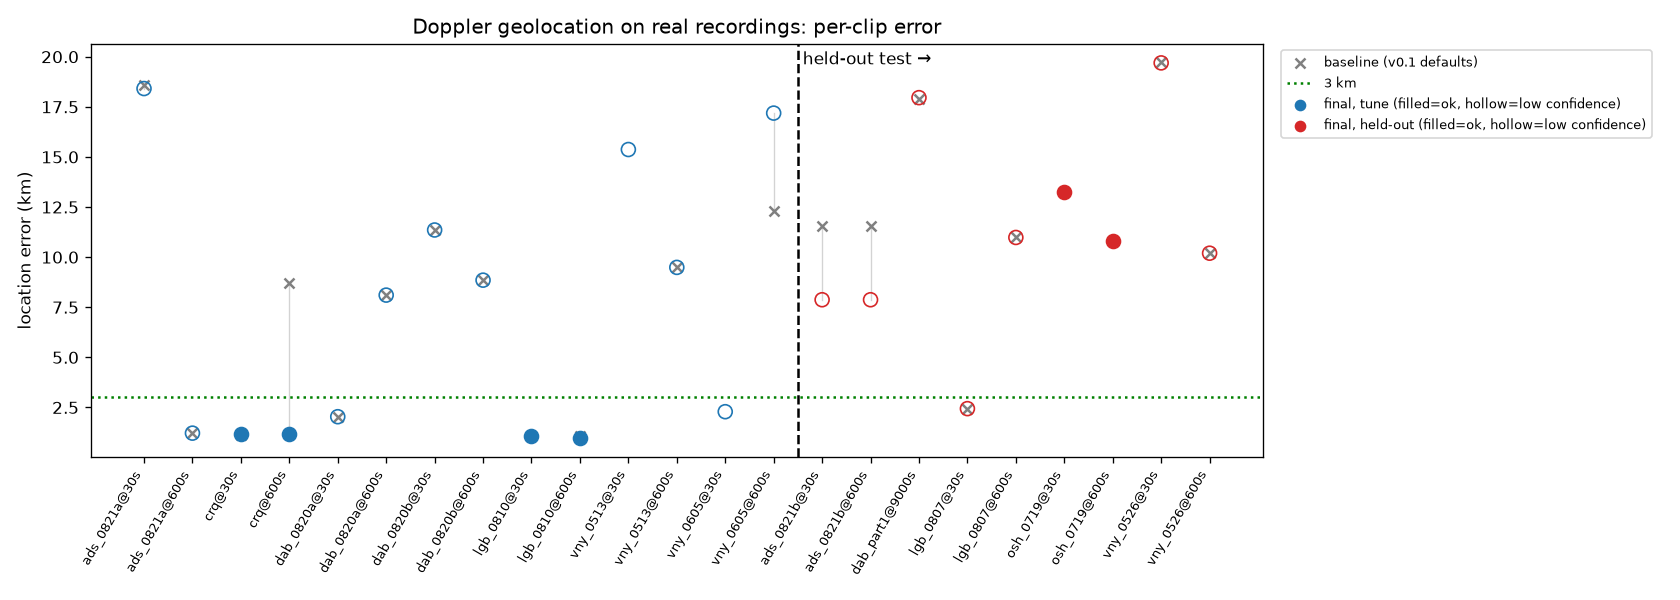
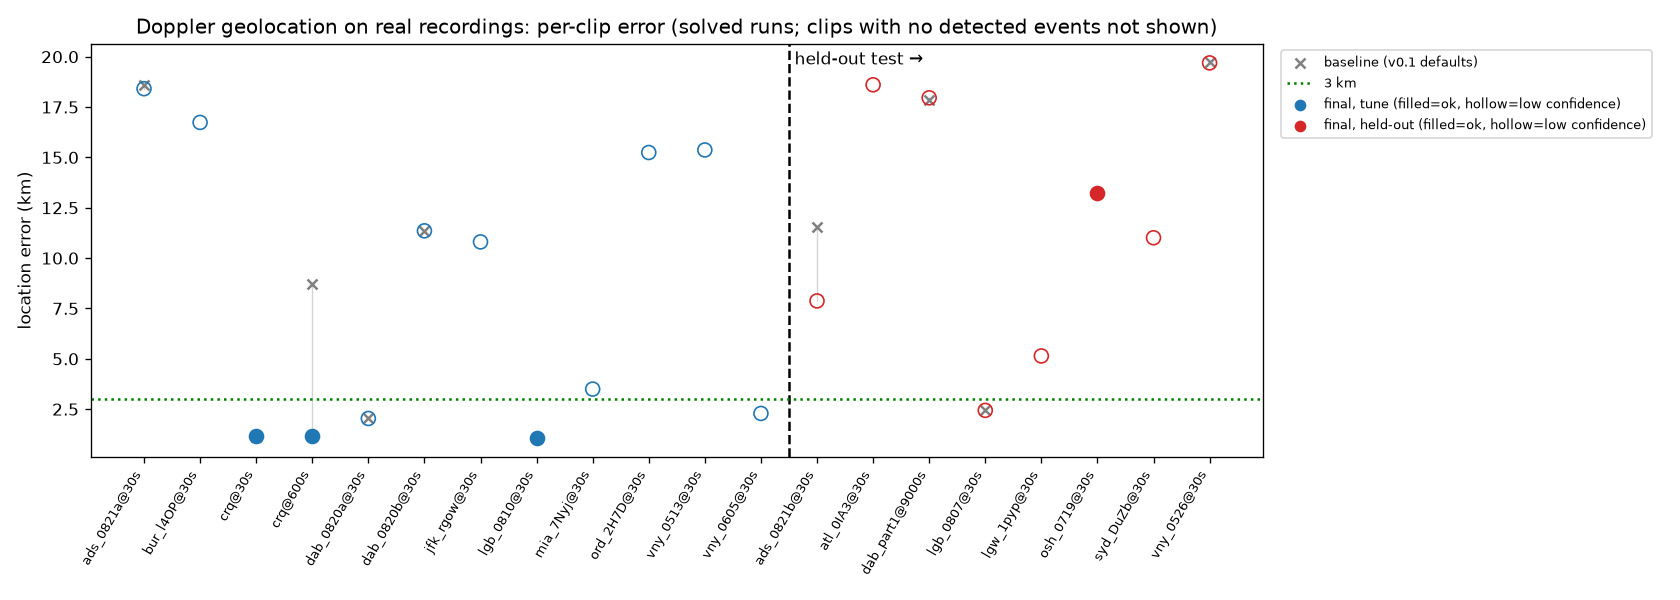
Calibrate 95% regions (temper_extra=4), eval calib sweep; README: expanded tune + held-out results, livestream failure analysis

diff --git a/scripts/eval_batch.py b/scripts/eval_batch.py
@@ -201,6 +201,29 @@ def coverage(res, tla, tlo, unc_km):
     out["in95u"] = bool(np.any(near & (rank < 0.95) & (p > 0)))
     out["a68_km2"] = round((a68 or 0) / 1e6, 3)
     out["a95_km2"] = round((a95 or 0) / 1e6, 3)
+    # calibration sweep: extra temper factor k on top of the Birge temperature,
+    # evaluated on the coarse full-domain level so the truth is always on the grid
+    C = res["levels"][0]
+    dC = np.hypot(
+        (C["lat"] - tla) * 111.2,
+        (C["lon"] - tlo) * 111.2 * math.cos(math.radians(tla)),
+    )
+    jc = int(np.argmin(dC))
+    sweep = {}
+    for k in (1, 2, 4, 8, 16, 32, 64, 128, 256):
+        pk, _, a95k = score.posterior(
+            C["logl"] / (C.get("temperature", 1.0) * k), C["step"] ** 2
+        )
+        o2 = np.argsort(-pk)
+        rk = np.empty_like(pk)
+        rk[o2] = np.cumsum(pk[o2]) - pk[o2]
+        nearc = dC <= max(unc_km, C["step"] / 1000)
+        sweep[str(k)] = [
+            round(float(rk[jc]), 4),
+            bool(np.any(nearc & (rk < 0.95) & (pk > 0))),
+            round((a95k or 0) / 1e6, 2),
+        ]
+    out["calib"] = sweep  # k -> [truth_mass_above, in95u, a95_km2]
     return out
 
 

diff --git a/dopplergeo/score.py b/dopplergeo/score.py
@@ -44,6 +44,9 @@ class Options:
     )
     dt_tol_s: float = 6.0  # clock / CPA-time slack per event
     dt_step_s: float = 0.5
+    # extra posterior temper on top of the Birge ratio (calibrated on real clips so
+    # 95% regions contain the truth ~95% of the time; 1.0 = uncalibrated)
+    temper_extra: float = 4.0
     sigma_floor: float = 0.003  # Doppler-ratio noise floor (0.3% ~ 0.4 Hz at 130 Hz)
     # Model error (ADS-B position/time error, ~20 s track sampling, wind, altitude
     # reference) adds to the detector noise and is correlated over seconds, so
@@ -504,7 +507,7 @@ def search(
         res = score_points(events, planes, g, c, o, t0_window, clip_dur)
         if progress:
             progress(li, len(g))
-        temp = birge_temperature(res)
+        temp = birge_temperature(res) * opts.temper_extra
         p, a68, a95 = posterior(res.logl / temp, step * step)
         levels.append(
             {

diff --git a/README.md b/README.md
@@ -91,31 +91,34 @@ A synthetic propeller tone (110 Hz, 80 m/s, 900 m altitude, gently turning) with
 
 ## Real-world geolocation results (v0.2.0)
 
-The full pipeline (events → historical ADS-B → grid search) was evaluated on 12 public recordings with known location and start time. Each clip was run at two start-time tolerances, ±30 s and ±600 s, except dab_part1, which has one run at ±9000 s, giving 23 runs in total. Each run searched a 15 km radius around a centre offset 5 km from the truth. The clips were split before tuning: 7 tune clips (14 runs) and 5 held-out test clips (9 runs). Settings were tuned on the tune split only, and the held-out split was run once after the defaults were frozen (`sigma_model=0.008`, `detect_prob=0.15`, sub-harmonic relabel, CPA-distance consistency term).
+The full pipeline (events → historical ADS-B → grid search) was evaluated on public recordings with a known location and start time: the original 12 clips plus 25 livestream VODs filmed at known spotting locations. Clips were split by location before any tuning, giving 23 tune clips and 14 held-out clips. Runs use a ±30 s start-time tolerance (the original tune clips also keep a ±600 s run for crq; dab_part1 runs at ±9000 s). Each run searched a 15 km radius around a centre offset 5 km from the truth. Settings were tuned on the tune split only. The held-out split was then run once with the frozen defaults (`sigma_model=0.008`, `detect_prob=0.15`, sub-harmonic relabel, CPA-distance consistency term, `temper_extra=4`).
 
-![Per-clip error, tune vs held-out, baseline vs final](docs/screenshots/summary.png)
+![Per-clip error, tune vs held-out](docs/screenshots/summary.png)
 
-| | runs | error < 3 km | median error | truth inside 95% area* |
-|---|---|---|---|---|
-| Tune, v0.1 defaults | 14 (2 crashed) | 5 | 8.4 km (12 solved) | — |
-| Tune, final | 14 | 7 | 5.2 km | 8 / 14 |
-| Held-out, v0.1 defaults | 9 | 1 | 11.5 km | — |
-| **Held-out, final** | 9 | **1** | 10.8 km | 3 / 9 |
+| | runs | no events / no ADS-B | solved | error < 3 km | median error (solved) | truth inside 95% area* |
+|---|---|---|---|---|---|---|
+| Tune | 24 | 11 / 1 | 12 | 5 | 7.2 km | 9 / 12 |
+| Held-out, previous (5 clips, ±30 s and ±600 s) | 9 | 0 | 9 | 1 | 10.8 km | 3 / 9 |
+| **Held-out, final (14 clips, ±30 s)** | 14 | 6 / 0 | 8 | **1** | **12.1 km** | 6 / 8 |
 
-*"95% area" here is the 95% credible area padded by the truth location's own uncertainty. With the unpadded 95% area, the truth fell inside in **0 of 23** runs. The credible areas are badly overconfident and should not be trusted as error bars.
+*"95% area" is the 95% credible area padded by the truth location's own uncertainty, using the shipped calibration. Point estimates on the 5 original held-out clips at ±30 s are unchanged from the previous run; the median moved because the new held-out clips are harder, not because the method got worse.
 
-**Confidence flag.** A result is flagged `confidence: low` when fewer than 2 matched events fit well and agree with the CPA distance.
+**Livestream clips mostly fail.** 12 of the 16 new tune clips and 6 of the 9 new held-out clips produced no usable events. Spectrograms show why: the stream audio is dominated by host commentary or gated ATC radio, is high-passed (around 80–120 Hz) and compressed, and jet passes appear as broadband noise without tonal engine lines. ADS-B had plenty of close passes for these clips, so the data side is not the problem. Four of these tune clips were diagnosed individually and marked excluded in the manifest; the rest are counted as failures above. Fixing this would need a broadband Doppler model rather than looser detector gates.
+
+**Calibration (`temper_extra=4`).** Without extra tempering, the 95% areas were badly overconfident (the unpadded area contained the truth in 0 of 23 earlier runs). The search now multiplies the Birge temperature by `temper_extra` (default 4, chosen on the tune split). On tune this covers 9 of 12 solved runs; at 64 it covers 11 of 12 but the area grows to the whole 15 km search disc, which is useless. With only 12 tune rows, this calibration is rough.
+
+**Confidence flag.** A result is flagged `confidence: low` when fewer than 2 matched events fit well and agree with the CPA distance. Low-confidence results report the whole search area as their 95% region, so the 95% region is only meaningful when confidence is `ok`.
 
 | | right (< 3 km) | wrong |
 |---|---|---|
-| tune: ok | 4 | 0 |
-| tune: low | 3 | 7 |
-| held-out: ok | 0 | 2 |
+| tune: ok | 3 | 0 |
+| tune: low | 2 | 7 |
+| held-out: ok | 0 | 1 |
 | held-out: low | 1 | 6 |
 
-**What works:** clips with several clean propeller passes near an airfield (crq, lgb_0810) locate to about 1 km and are flagged ok. Most single-event results are flagged low, and most of those are wrong.
+**What works:** clips with several clean propeller passes near an airfield (crq, lgb_0810) locate to about 1 km and are flagged ok.
 
-**Limitations:** on unseen clips the method mostly fails (1 of 9 runs under 3 km). An `ok` flag is not a guarantee: osh_0719 was flagged ok and was still 11–13 km off. One flyover leaves the along-track position ambiguous, and the likelihood then prefers the wrong aircraft. With only 12 clips, these numbers are indicative rather than precise. Treat any output as a hypothesis to check, not as a location.
+**Limitations:** on unseen clips the method mostly fails (1 of 14 held-out runs under 3 km, 6 with no events at all). An `ok` flag is not a guarantee: osh_0719 was the only held-out `ok` result, it was 13.2 km off, and its 95% area missed the truth. One flyover leaves the along-track position ambiguous, and the likelihood then prefers the wrong aircraft. With these small samples the numbers are indicative, not precise. Treat any output as a hypothesis to check, not as a location.
 
 ## Real-world test (v0.1.1)
 
